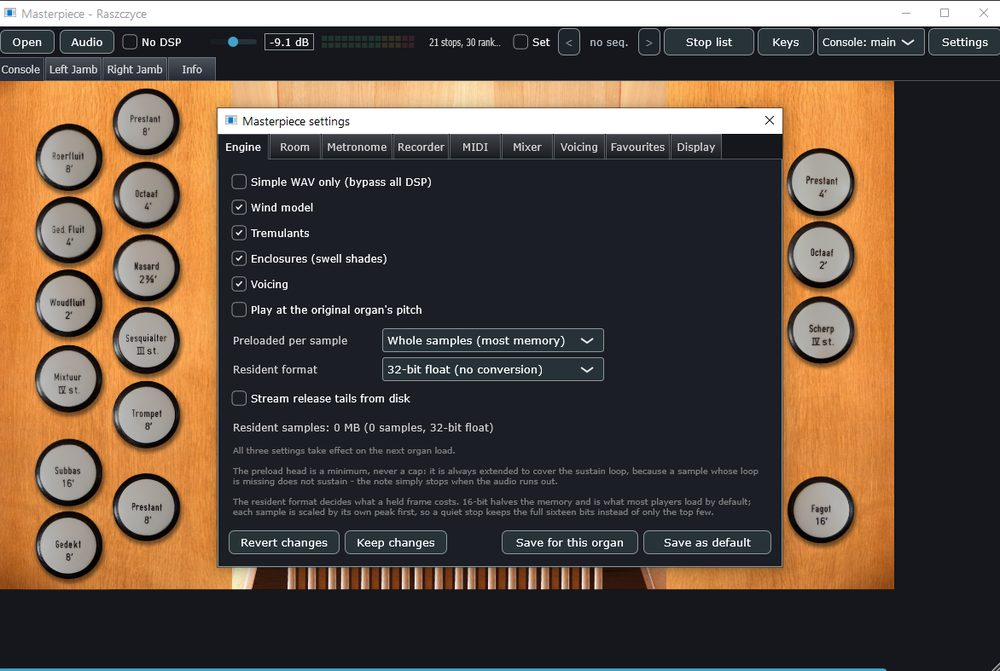
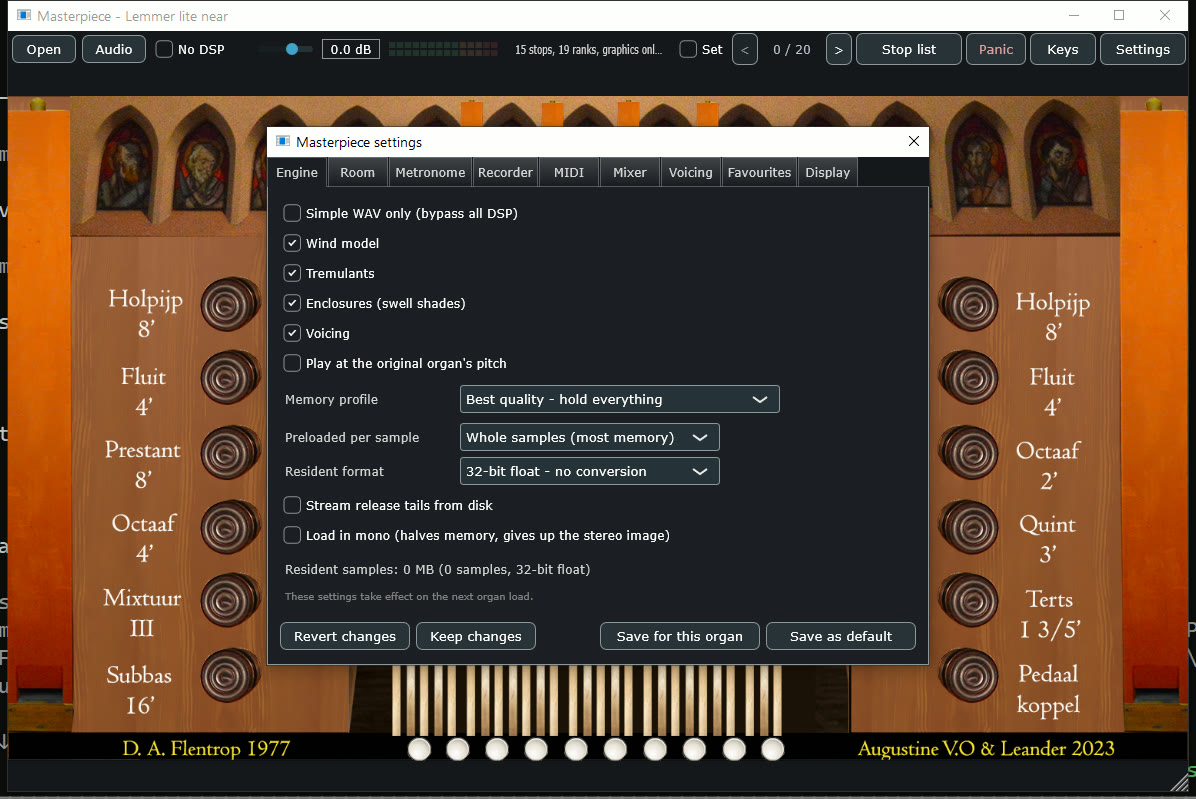
Quote the memory figures that were actually measured
The README and the page carried "12.2 GB down to 5.6 GB", from an older set
and before there was anything to choose but streaming. Friesach has now been
measured across seven configurations, so the numbers are the ones a reader
can check: 21.6 GB fully resident at 32-bit float, 4.65 GB at 16-bit with the
release tails streamed, 1.16 GB at 8-bit mono, every step an exact halving.

The engine screenshot was taken before the settings page had a profile
chooser, a mono option or an 8-bit format, and showed none of them.

diff --git a/site/index.html b/site/index.html
@@ -168,6 +168,15 @@
     <div class="shot">
       <div class="shot-img"><img src="screenshots/ui-voicing.jpg" alt="Voicing: per-rank and per-pipe level and tuning"></div>
       <div>
+        <h4>Resident format and channels</h4>
+        <p>A held frame can be 32-bit float, 16-bit or 8-bit, and a stereo set
+          can be folded to mono as it loads. Each step is an exact halving,
+          measured: the same 44-stop instrument is 21.6&nbsp;GB fully resident,
+          4.65&nbsp;GB at 16-bit with releases streamed, and 1.16&nbsp;GB at
+          8-bit mono. The settings page offers them as profiles rather than as
+          four separate questions.</p>
+      </div>
+      <div class="feature">
         <h4>Voicing</h4>
         <p>A rank adjustment and a single-pipe adjustment add, so pulling one
           sour pipe into tune does not throw away the trim you put on the rank
@@ -230,9 +239,9 @@
         <h4>Streaming pipe loading</h4>
         <p>Attacks and loops stay resident; each release tail keeps only its
           head in RAM and a background thread refills per-voice ring buffers
-          while the note sounds. One 12.2&nbsp;GB set is resident in
-          5.6&nbsp;GB with output identical sample for sample. Reduced-precision
-          storage roughly halves the footprint again.</p>
+          while the note sounds. On a 44-stop, 17&nbsp;GB set that leaves 55%
+          of the sample data on disk and halves the load time, because those
+          tails are never read up front.</p>
       </div>
       <div class="feature">
         <h4>Wind model</h4>
@@ -240,6 +249,15 @@
           valves and per-pipe air demand are solved as a physical system.
           Registration load lowers the pressure, and tuning and attack follow
           it.</p>
+      </div>
+      <div class="feature">
+        <h4>Resident format and channels</h4>
+        <p>A held frame can be 32-bit float, 16-bit or 8-bit, and a stereo set
+          can be folded to mono as it loads. Each step is an exact halving,
+          measured: the same 44-stop instrument is 21.6&nbsp;GB fully resident,
+          4.65&nbsp;GB at 16-bit with releases streamed, and 1.16&nbsp;GB at
+          8-bit mono. The settings page offers them as profiles rather than as
+          four separate questions.</p>
       </div>
       <div class="feature">
         <h4>Voicing</h4>

diff --git a/README.md b/README.md
@@ -36,7 +36,7 @@ own audio output.
 |---|---|
 | Formats | Standalone application; VST3 and LV2 plugins from the same engine. Raspberry Pi builds are standalone only. |
 | Sample playback | Per-pipe attack, sustain loop and matched release tail, crossfaded rather than cut. Four-point interpolation on transposed ranks. |
-| Memory | Streaming pipe loading: release tails read from disk on demand, refilled into per-voice ring buffers by a background thread. One 12.2 GB set is resident in 5.6 GB with output identical sample for sample. Optional reduced-precision storage roughly halves the footprint again. |
+| Memory | Four settings, measured on a 44-stop 17 GB set. Streaming pipe loading reads release tails from disk on demand, refilled into per-voice ring buffers by a background thread — 55% of the sample data, and a faster load, because those tails are never read up front. Resident format is 32-bit float, 16-bit or 8-bit; a stereo set can be folded to mono as it loads. Every step is an exact halving: 21.6 GB fully resident, 4.65 GB at 16-bit with releases streamed, 1.16 GB at 8-bit mono. |
 | Wind | Compartments, bellows, valves and per-pipe air demand solved as a physical system, for sets that describe their pneumatics. Registration load lowers pressure; tuning and attack follow. |
 | Voicing | Level and tuning per rank and per pipe, composed rather than overriding. Applied once at note start, so there is no per-sample cost and it works with DSP off. Two full sets, A and B, for comparison. |
 | Registration | Couplers resolved through the set's own switch graph. Thumb pistons, combinations with capture, general cancel, crescendo, sequencer over the generals. |
